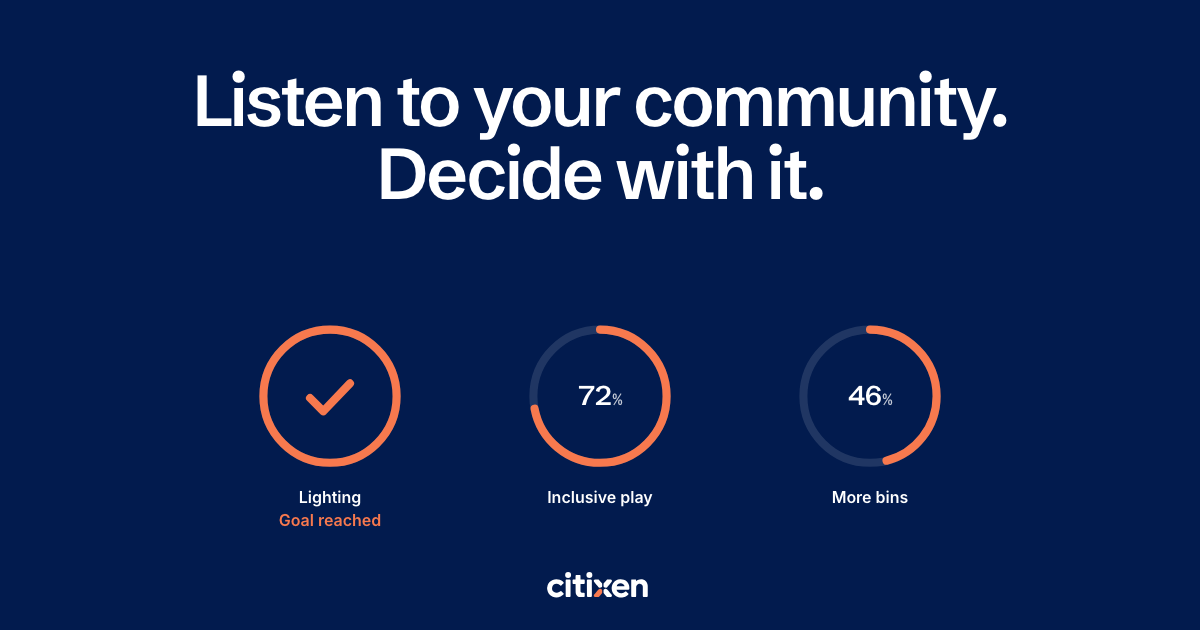
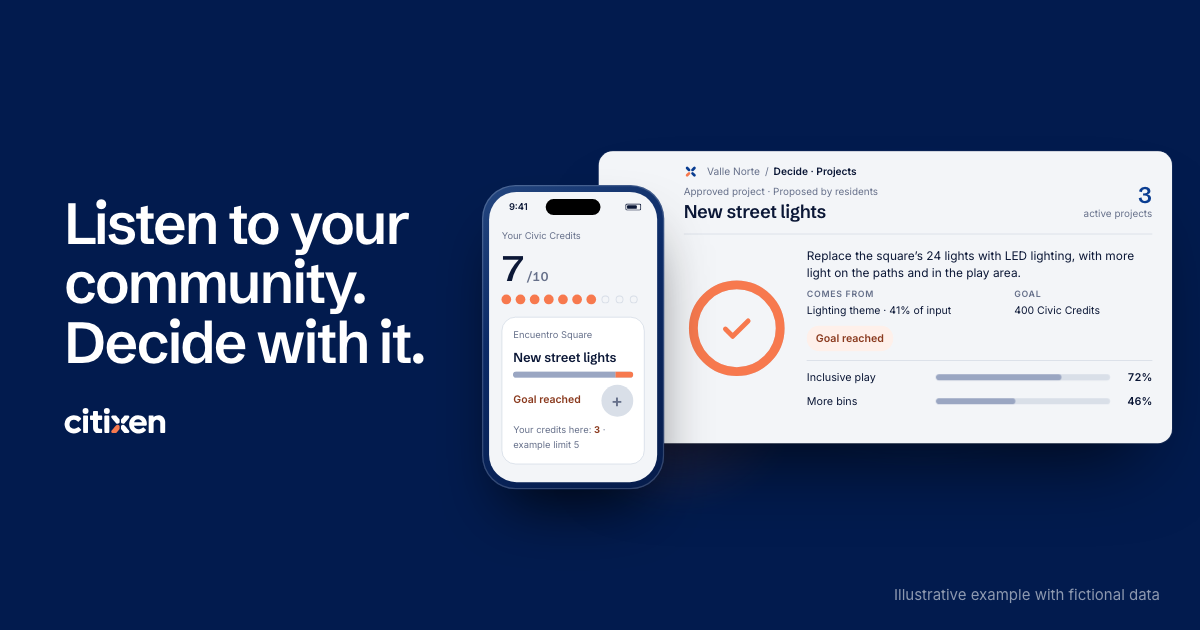
Landing en español neutro e imágenes para redes con la escena nueva
Pedido de Pablo: que la entienda cualquier país hispano. Tuteo en lugar de
voseo (hero, Escucha, Lugares, formulario, SEO) y vocabulario general
(solicitud, aquí, piscina, aceras, ciclovía, citas, pequeños); sin nombres
de lugar argentinos en los ejemplos. Imágenes para redes regeneradas con la
escena del hero en es/pt/en.

diff --git a/components/layout/Seo.jsx b/components/layout/Seo.jsx
@@ -6,7 +6,7 @@ const NOINDEX = process.env.SITE_ENV !== 'production'
 
 // Imagen para redes por idioma (public/og-image-<idioma>.png, 1200 × 630).
 const OG_ALT = {
-  es: 'Citixen: Escuchá a tu comunidad. Decidí con ella.',
+  es: 'Citixen: Escucha a tu comunidad. Decide con ella.',
   pt: 'Citixen: Ouça sua comunidade. Decida com ela.',
   en: 'Citixen: Listen to your community. Decide with it.',
 }

diff --git a/CLAUDE.md b/CLAUDE.md
@@ -14,7 +14,8 @@ Aprobada por Pablo tras la revisión visual (galería: https://claude.ai/artifac
 - Créditos Cívicos según el modelo continuo: sin ranking ni cierre, proyectos propuestos por vecinos u organizaciones y aprobados por el gobierno, límite de 5 por proyecto y mes, sin botón para retirar créditos (la app no lo ofrece). Se dicen «unidades de participación, no dinero».
 - Navegación y pie apuntan a `#escucha`, `#decide` y `#demostracion`. Los datos de Lugares viven en `content/places.mjs` (los usan la home nueva y `content/landing.mjs`); `PlacesExplorer` se exporta desde `components/landing/Places.jsx`. El resto de `components/landing/` y `content/landing.mjs` queda sin uso.
 - `SHOW_CIVIC_CREDITS` sigue en `false`: la home nueva muestra Decide sin depender de ese interruptor, que solo gobierna las páginas viejas de Créditos Cívicos.
-- Imágenes para redes: siguen mostrando los anillos de meta del hero anterior (pendiente regenerarlas con la escena nueva).
+- Imágenes para redes (18-nov): escena nueva en el estado final de Decide, con el título y «Ejemplo ilustrativo con datos ficticios» en cada idioma. Se generan con capturas del hero real (movimiento reducido, Decide, sin navegación ni bajada).
+- **Español neutro (decisión de Pablo, 18-nov-2026):** la landing habla a todo el mundo hispano, no solo a Argentina. Tuteo, nunca voseo («Escucha a tu comunidad. Decide con ella.», «Solicita», «Toca»), y vocabulario general: «solicitud» (no «pedido»), «aquí» (no «acá»), «piscina», «aceras», «ciclovía», «citas», «niños o pequeños» (no «chicos»), sin nombres de lugar argentinos en los ejemplos («Plaza del Sol», «Parque de la Ribera», «Biblioteca Municipal»). Las páginas legales (`/account-deletion` tiene voseo) no se tocaron: se conservan por regla del repo.
 - **Hero = escena de producto (en producción desde el 18-nov-2026, PR #13 `f725c41`; elegida por Pablo entre seis maquetas, galería https://claude.ai/artifact/3ZSNMS4hcjPGyyTsjBHJnf).** `components/ed/HeroScene.jsx` + `HeroScene.module.css`; textos en `escuchaDecide.hero.scene` (es/pt/en). Celular del vecino delante del panel del municipio, **recto** (Pablo rechazó la inclinación en perspectiva). Escucha: QR → aporte escrito → vuela al panel → 86→87 aportes e Iluminación 40→41 %. Decide: tres Créditos Cívicos salen de la billetera y completan *Nuevas luminarias* (397→400); el cuadro del proyecto **describe de qué se trata y de qué tema surge** (pedido de Pablo: no hablar de procedimientos administrativos ahí). Foco suave (≈84 %) sobre lo que no actúa. Escena quieta inicial = celular con el aporte escrito + panel encendido.
 - Escritorio ≥1024 px: hero en **dos columnas** (decisión de Pablo: texto a la izquierda alineado con el logo; selector, escena y leyenda a la derecha). La escena se dibuja a 780×400 y crece más allá de su columna hasta cerca del borde derecho (sin cortarse), limitada por el alto de la ventana para que todo el hero entre en una pantalla (≈1,05 en 1440×810; tope 1,15). Pedido de Pablo (18-nov): «se ve muy chico». Tableta y celular: apilado, escena sin escalar (panel arriba, celular debajo con su paso escrito); en celular el hero mide ≈1.150 px (pendiente: versión más compacta).
 - Secuencia automática una sola vez (~11 s) al verse; «Detener animación» / «Ver de nuevo» (WCAG 2.2.2); el selector repite cada parte. Movimiento reducido: estado final quieto.
